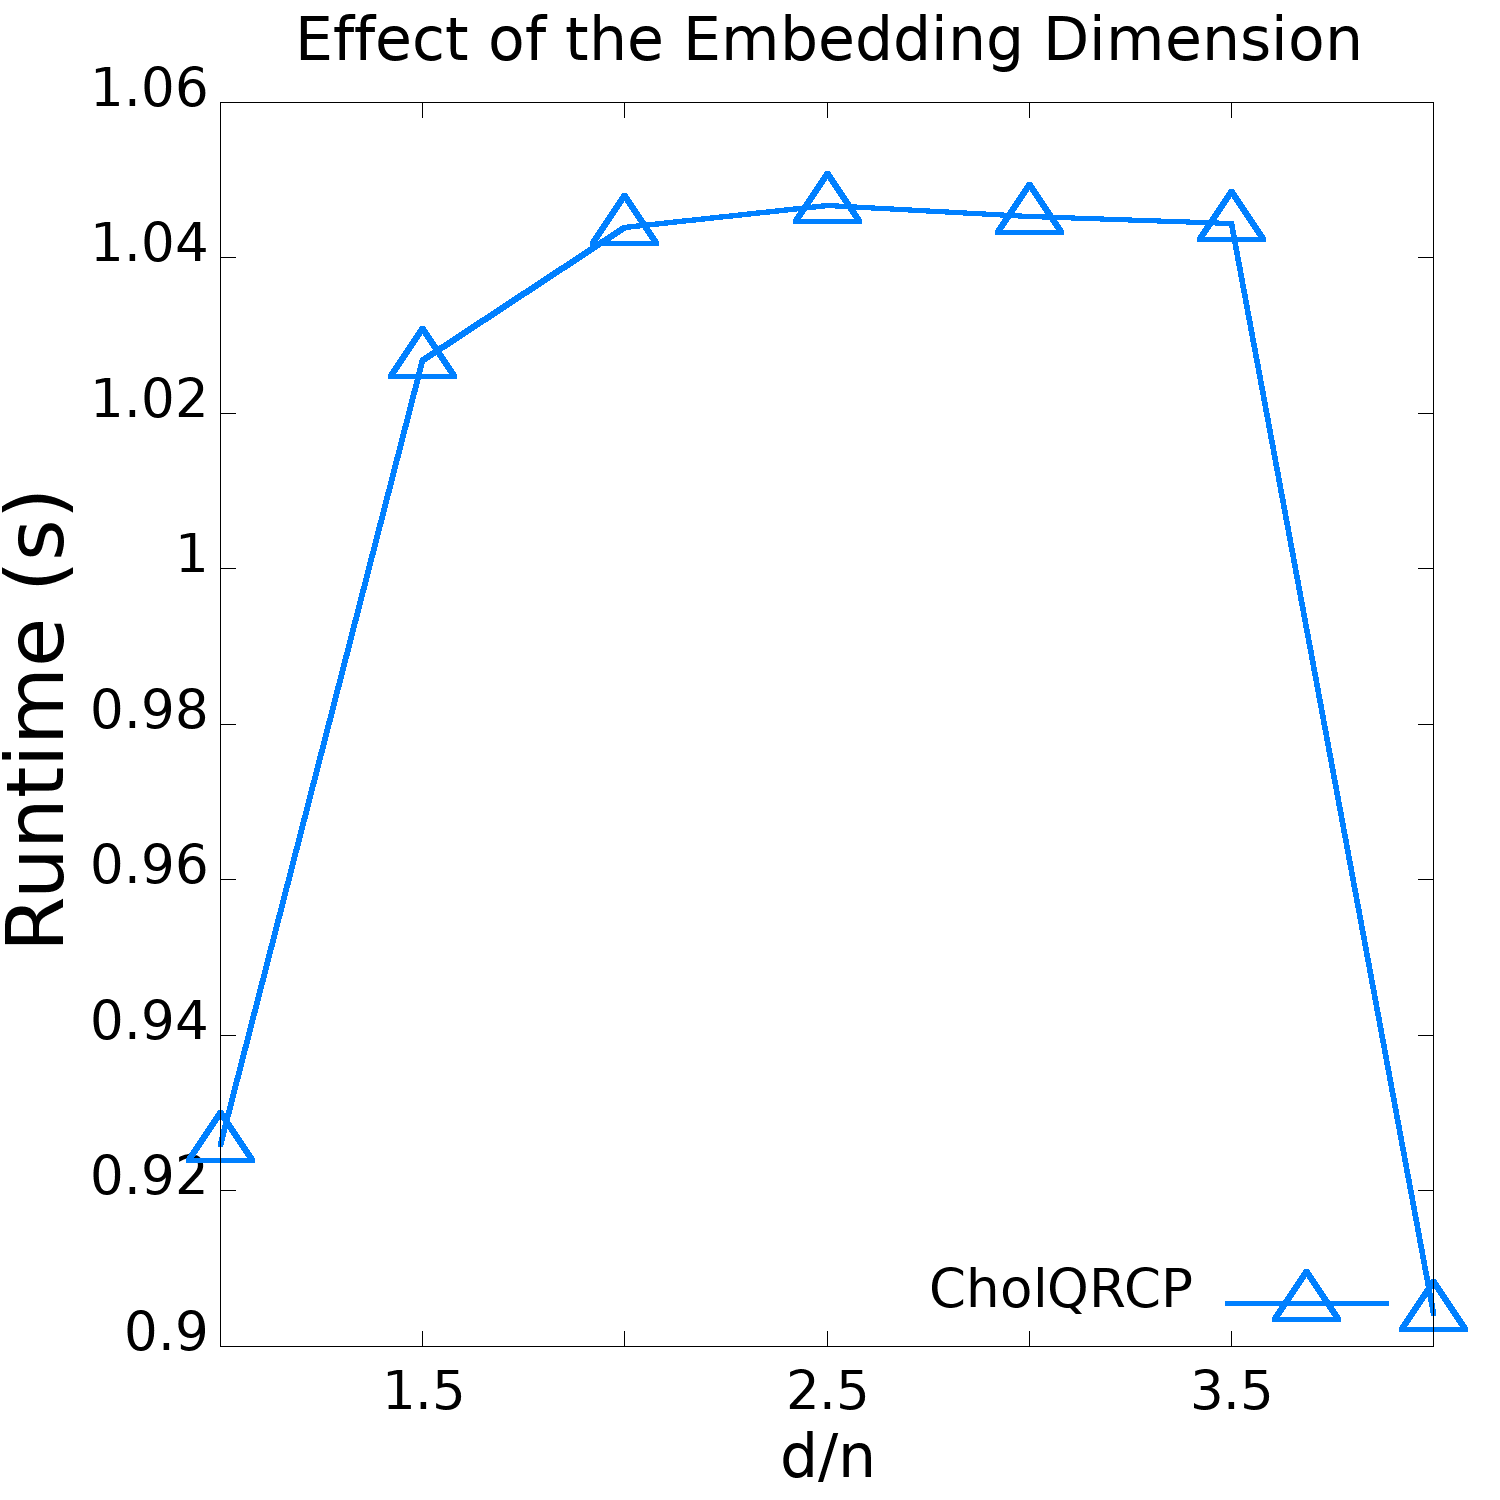
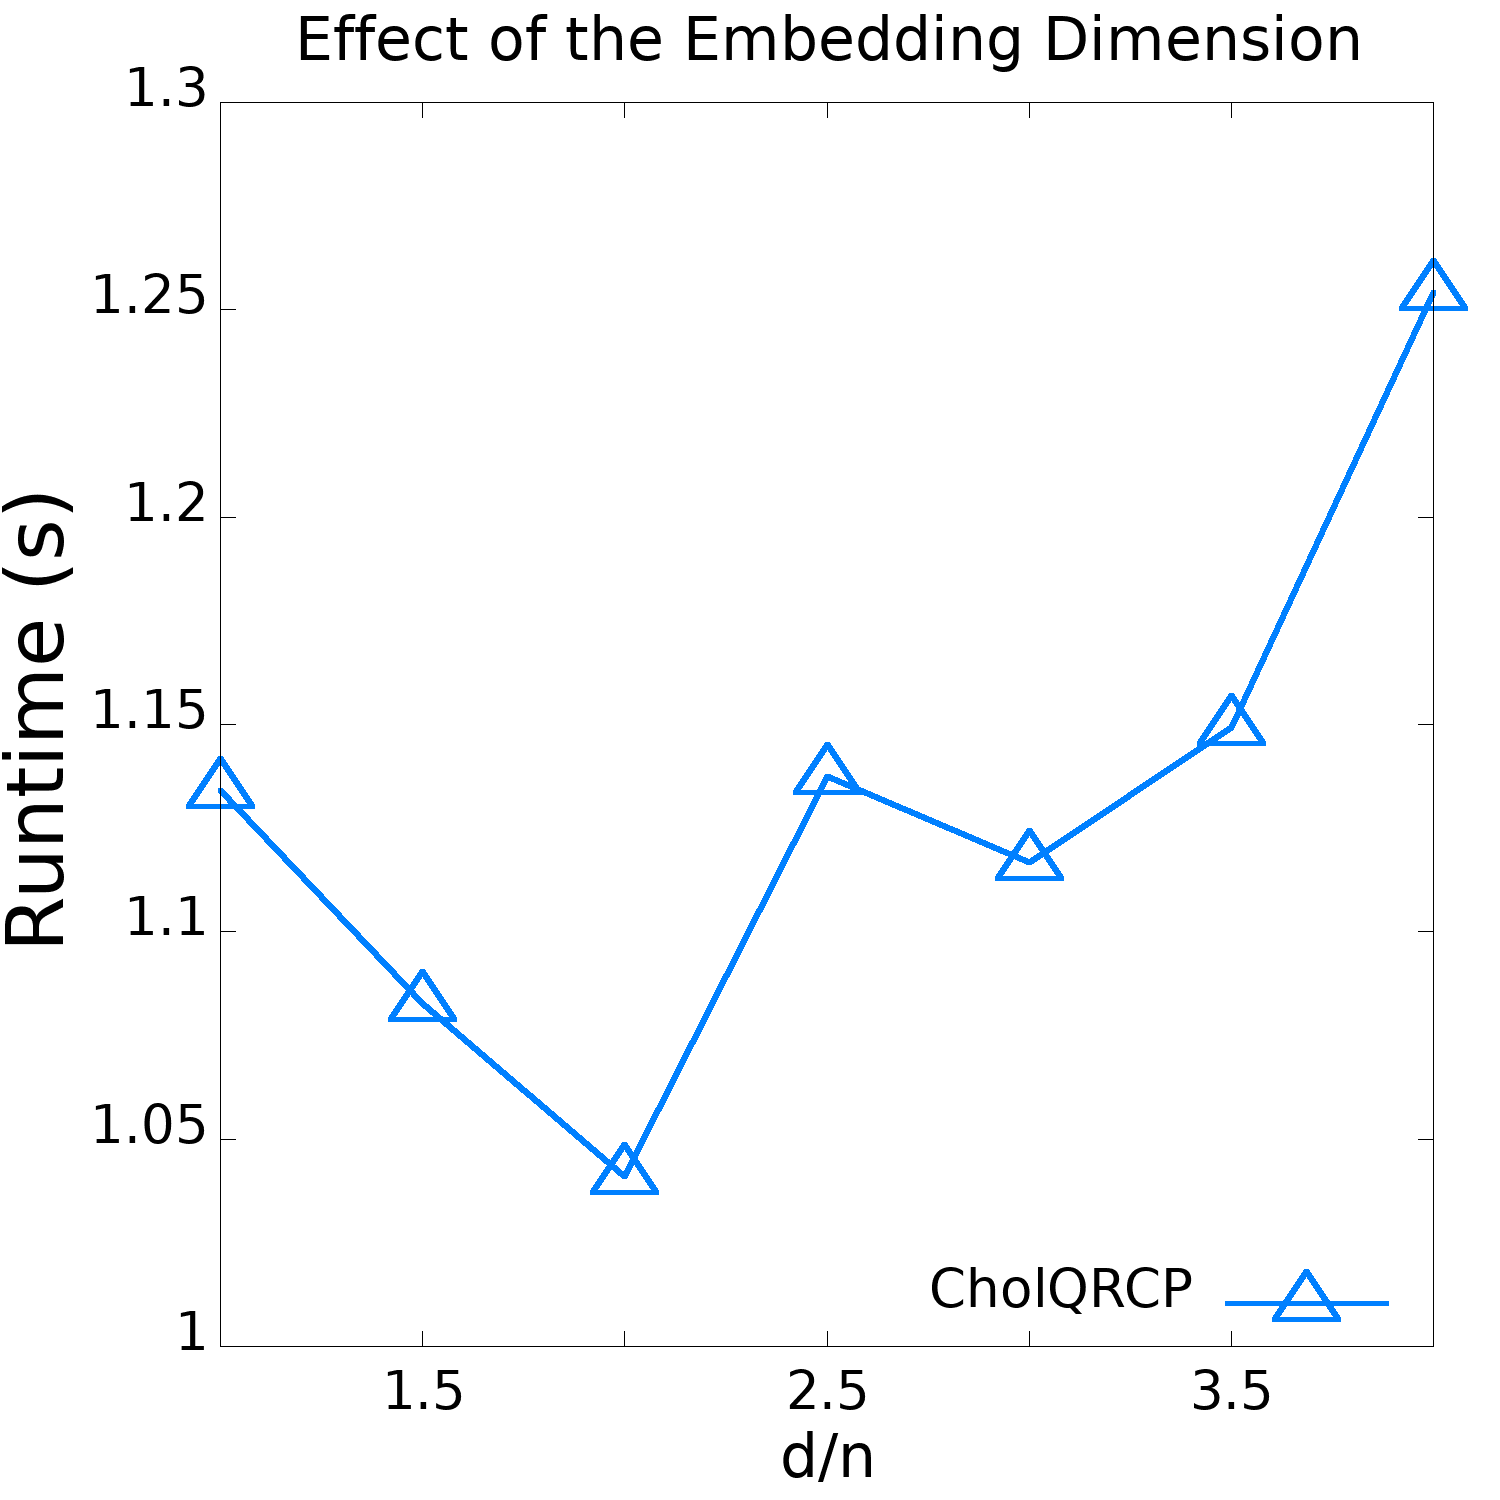
Update

diff --git a/test_benchmark/QR/convert_time.cc b/test_benchmark/QR/convert_time.cc
@@ -18,7 +18,7 @@ template <typename T>
 static void 
 process_dat() {
     // Open data file
-    std::string filename = "speed/raw_data/CholQRCP_embedding_time_Best_m_131072_n_2048_d_multiplier_start_1.000000_d_multiplier_end_4.000000_k_multiplier_1.000000_log10(tol)_-11_mat_type_6_cond_0_nnz_1_runs_per_sz_5_OMP_threads_36.dat";
+    std::string filename = "speed/raw_data/CholQRCP_embedding_time_Best_m_131072_n_1024_d_multiplier_start_1.000000_d_multiplier_end_4.000000_k_multiplier_1.000000_log10(tol)_-11_mat_type_6_cond_0_nnz_1_runs_per_sz_5_OMP_threads_36.dat";
     std::fstream file(filename);
     
     int offset = 0;
